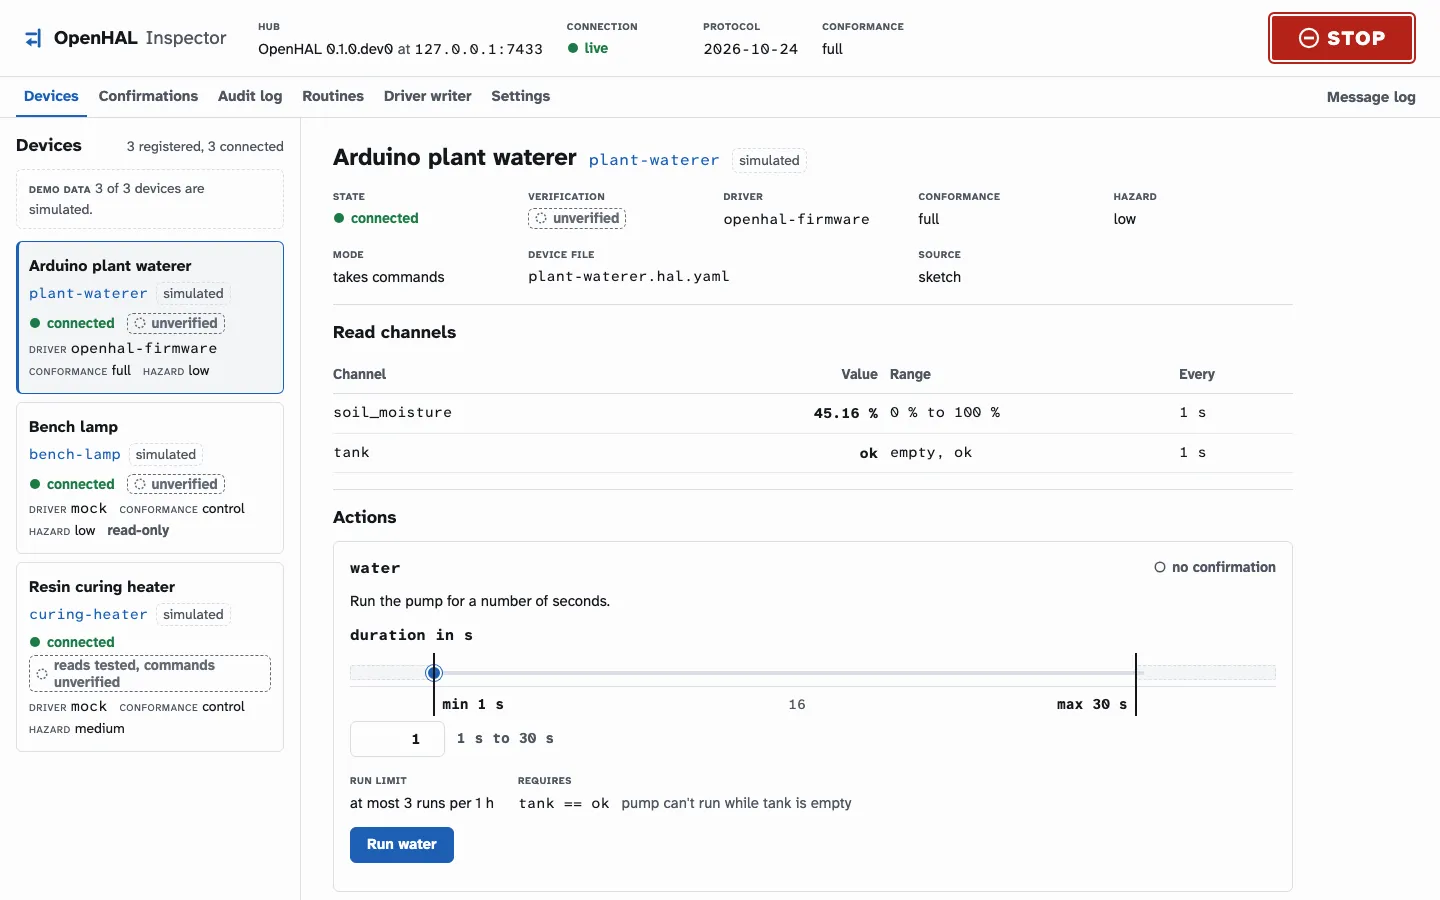
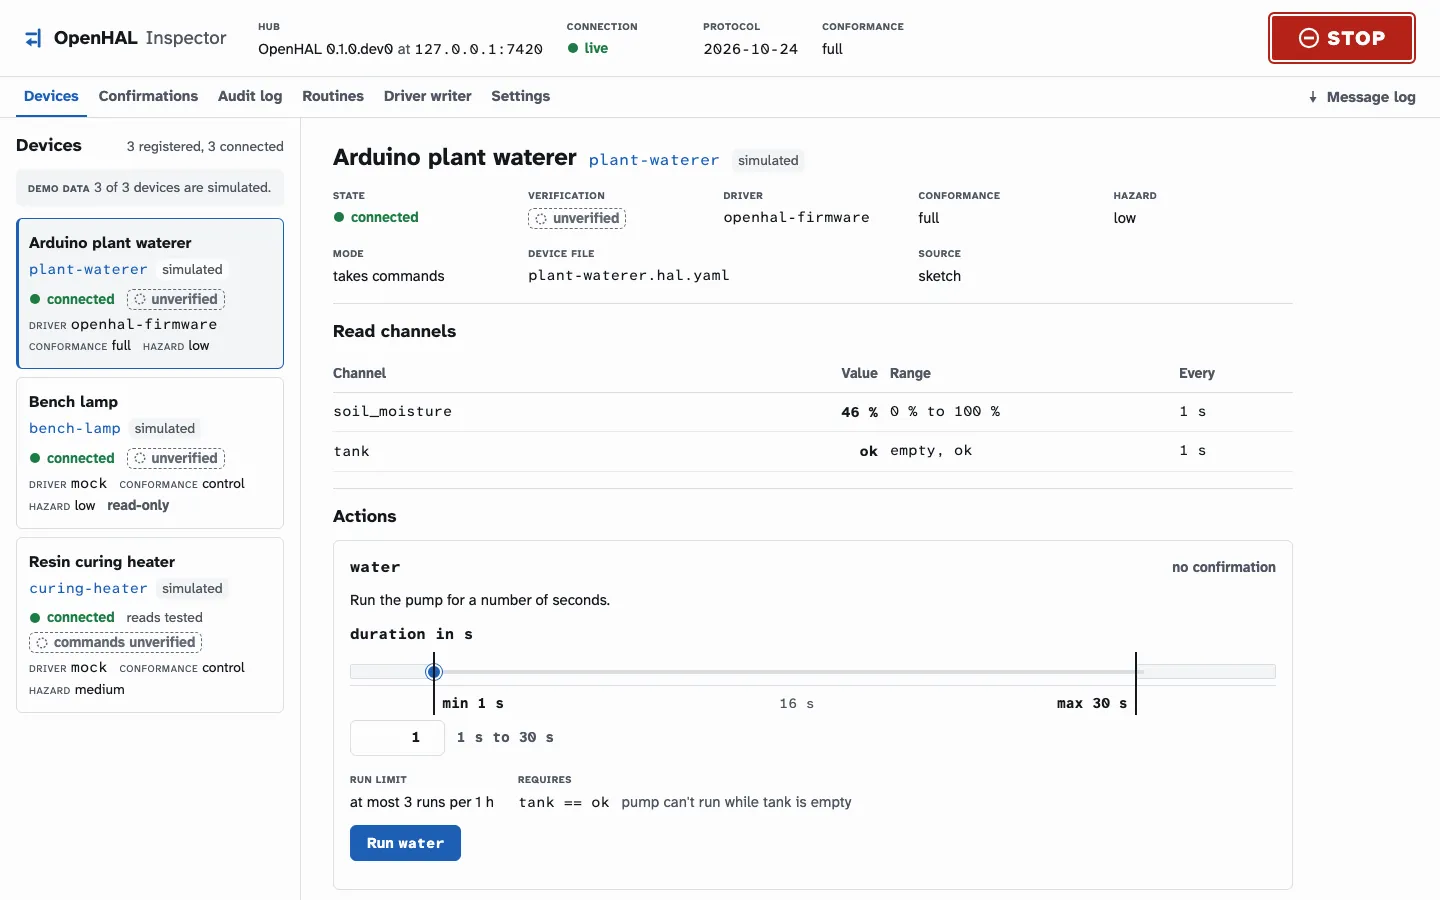
chore(website): capture the Inspector with the hub at 127.0.0.1:7420
The capture script runs its hub on 7420, the default address the docs give,
and stops with a plain message when that port is busy. It checks the header
shows the address, waits for soil moisture to read 46 % as in the canonical
scenario, and shoots the stopped state on the device pane. The screenshot
config takes its port from INSPECTOR_PORT too.

diff --git a/dashboard/playwright.shots.config.ts b/dashboard/playwright.shots.config.ts
@@ -2,7 +2,7 @@ import { defineConfig, devices } from "@playwright/test";
 import { fileURLToPath } from "node:url";
 
 const repo = fileURLToPath(new URL("..", import.meta.url));
-const port = 7432;
+const port = Number(process.env.INSPECTOR_PORT ?? 7432);
 const state = fileURLToPath(new URL("./test-results/shots-hub.json", import.meta.url));
 process.env.INSPECTOR_PORT = String(port);
 process.env.INSPECTOR_STATE = state;
